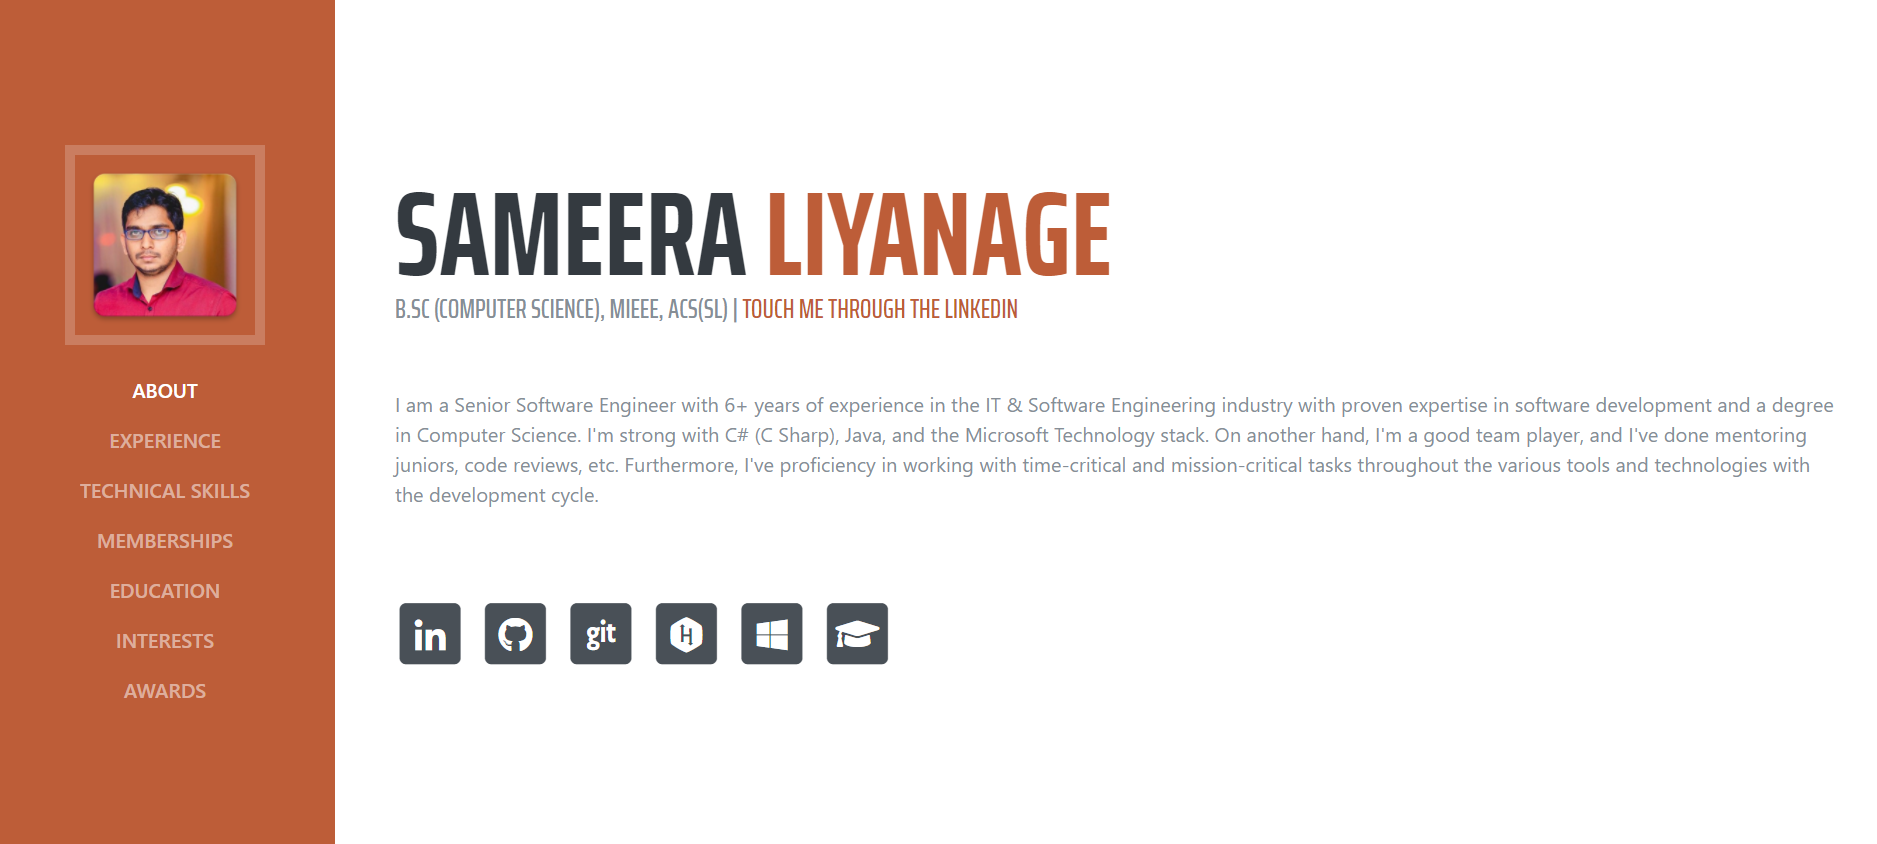
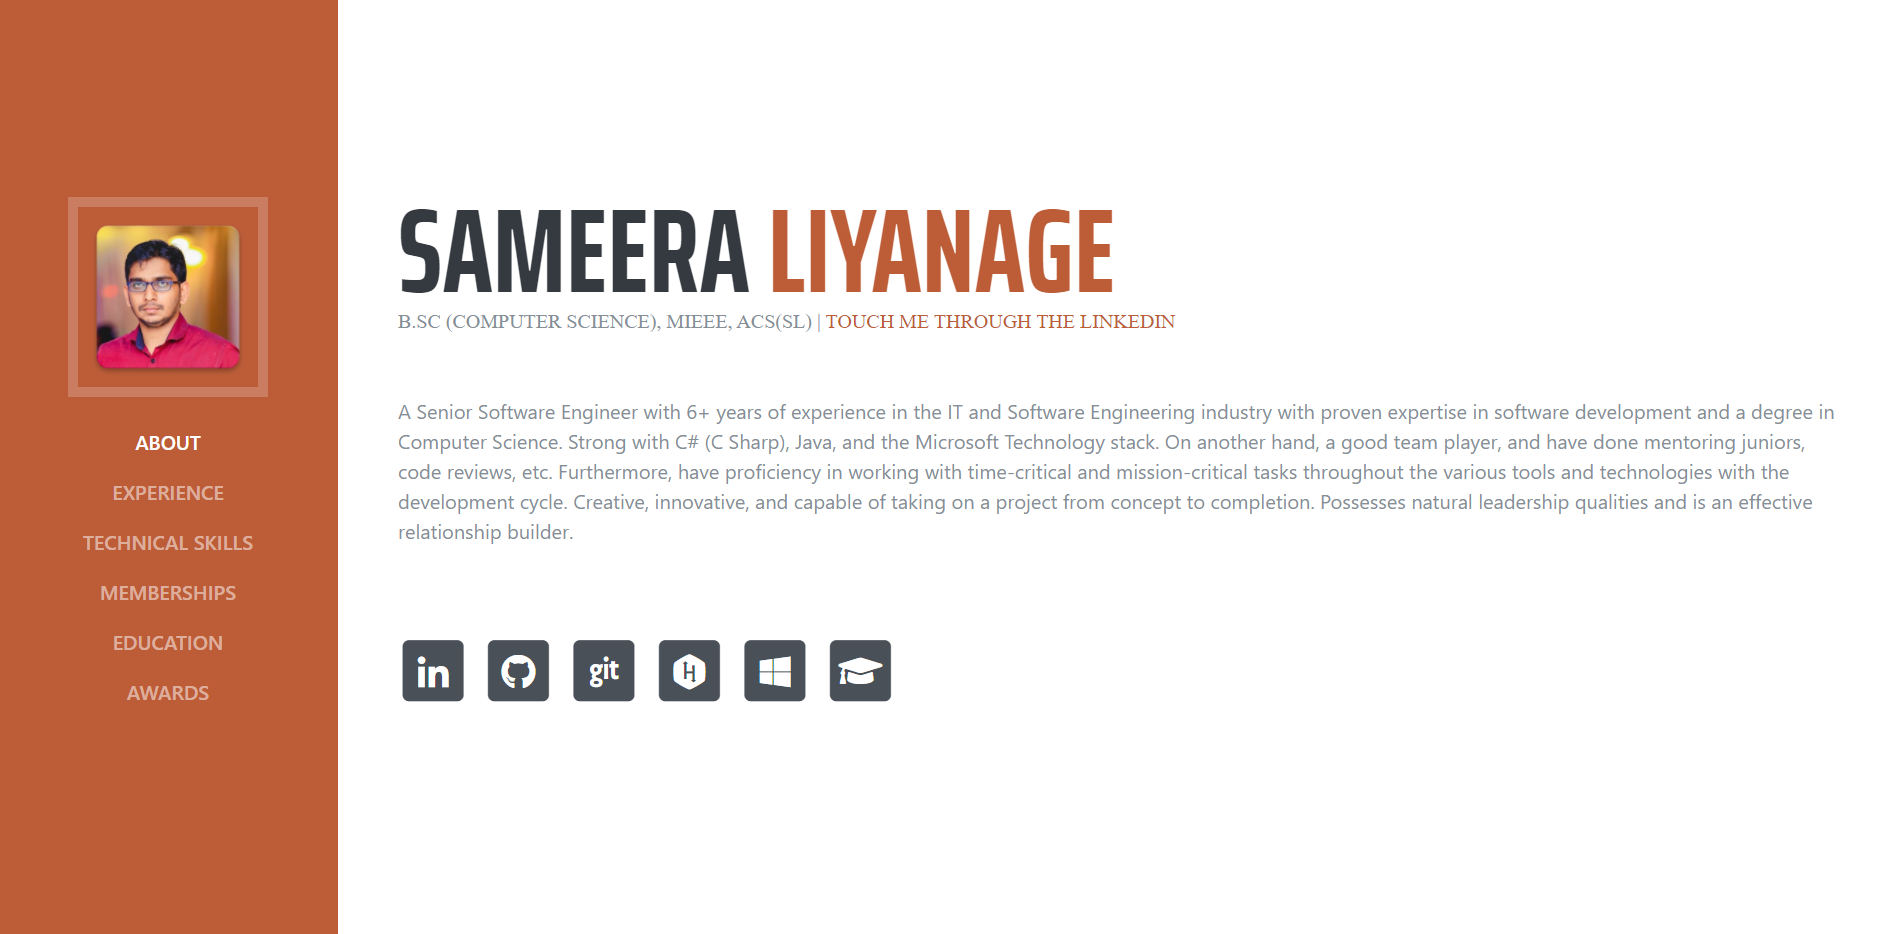
Update details

diff --git a/index.html b/index.html
@@ -53,9 +53,6 @@
 						<a class="nav-link js-scroll-trigger" href="#education">Education</a>
 					</li>
 					<li class="nav-item">
-						<a class="nav-link js-scroll-trigger" href="#interests">Interests</a>
-					</li>
-					<li class="nav-item">
 						<a class="nav-link js-scroll-trigger" href="#awards">Awards</a>
 					</li>
 				</ul>
@@ -70,12 +67,10 @@
 						<a href="https://www.linkedin.com/in/sameeravx" target="_blank">Touch me through the LinkedIn</a>
 					</div>
 					<p class="mb-5">
-						I am a Senior Software Engineer with 6+ years of experience in the IT & Software Engineering industry with proven 
-						expertise in software development and a degree in Computer Science. I'm strong with C# (C Sharp), 
-						Java, and the Microsoft Technology stack. On another hand, I'm a good team player, and I've done mentoring juniors, 
-						code reviews, etc. 
-						Furthermore, I've proficiency in working with time-critical and mission-critical tasks throughout the various 
-						tools and technologies with the development cycle.
+						A Senior Software Engineer with 6+ years of experience in the IT and Software Engineering industry with proven expertise in software development and a degree in Computer Science. 
+						Strong with C# (C Sharp), Java, and the Microsoft Technology stack. On another hand, a good team player, and have done mentoring juniors, code reviews, etc. 
+						Furthermore, have proficiency in working with time-critical and mission-critical tasks throughout the various tools and technologies with the development cycle. 
+						Creative, innovative, and capable of taking on a project from concept to completion. Possesses natural leadership qualities and is an effective relationship builder.
 					</p>					
 					<br/>
 					<ul class="list-inline list-social-icons mb-0">						
@@ -231,7 +226,7 @@
 										<ul>
 											<li>Description</li>
 											<p style="text-align: justify;">
-												This is an integrated system to the existing main insurance system to start a new insurance policy from the quotation level. On another side, It is an automation of manual policy creation.
+												This is an integrated system to the existing main insurance system to start a new insurance policy from the quotation level. On another side, it is an automation of manual policy creation.
 											</p>
 											<li>Role and Responsibilities</li>
 											<p style="text-align: justify;">
@@ -246,12 +241,12 @@
 											<li>Used Technologies & Tools</li>
 											<p style="text-align: justify;">
 												<ul>
-													<li>Angular, Typescript</li>
-													<li>C Sharp (.NET Core), ADO.NET, ASP.NET MVC</li>
-													<li>SQL, SQL Server 2017</li>
-													<li>SQL Server Management Studio 2019</li>
-													<li>DevOps, Azure, IIS, GIT</li>
+													<li>C Sharp (.NET Core), ADO.NET, MVC</li>
+													<li>Entity Framework, SQL, SQL Server 2019</li>
+													<li>Angular, Typescript, JavaScript, jQuery</li>
 													<li>Visual Studio 2019, VS Code</li>
+													<li>SQL Server Management Studio 2019</li>
+													<li>Azure DevOps, IIS, GIT</li>
 												</ul>
 											</p>
 										</ul>
@@ -287,12 +282,12 @@
 											<li>Used Technologies & Tools</li>
 											<p style="text-align: justify;">
 												<ul>
-													<li>Angular, Typescript</li>
 													<li>C Sharp (.NET Core), ADO.NET</li>
-													<li>SQL, SQL Server 2017, SSRS</li>
-													<li>SQL Server Management Studio 2019</li>
-													<li>DevOps, Azure, IIS</li>
+													<li>Entity Framework, SQL, SQL Server 2019</li>
+													<li>Angular, Typescript, HTML</li>
 													<li>Visual Studio 2019, VS Code</li>
+													<li>SQL Server Management Studio 2019</li>
+													<li>Azure DevOps, IIS</li>
 												</ul>
 											</p>
 										</ul>
@@ -328,12 +323,12 @@
 											<li>Used Technologies & Tools</li>
 											<p style="text-align: justify;">
 												<ul>
-													<li>C Sharp (.NET), MVC 5, Razor, ADO.NET, Entity Framework</li>
-													<li>SQL, SSRS, SQL Server 2017</li>
+													<li>C Sharp (.NET), MVC 5, Razor, SSRS</li>
+													<li>Entity Framework, SQL, ADO.NET</li>
 													<li>JavaScript, jQuery, HTML, CSS, Bootstrap</li>
-													<li>SQL Server Management Studio 2019</li>
-													<li>DevOps, TFS, Azure, IIS</li>
 													<li>Visual Studio 2019</li>
+													<li>SQL Server Management Studio 2019</li>
+													<li>Azure DevOps, IIS</li>
 												</ul>
 											</p>
 										</ul>
@@ -369,12 +364,11 @@
 											<li>Used Technologies & Tools</li>
 											<p style="text-align: justify;">
 												<ul>
-													<li>C Sharp (.NET), ASP.NET Web API, ADO.NET, Entity Framework</li>
-													<li>Angular, Typescript, JSON</li>
-													<li>Windows Form, MSSQL, SQL Server 2016</li>
-													<li>HTML, CSS, Bootstrap</li>
-													<li>Visual Studio 2017, VS Code</li>
-													<li>SQL Server Management Studio 2016</li>
+													<li>C Sharp (.NET), ASP.NET Web API</li>
+													<li>Angular, Typescript, ADO.NET, HTML</li>
+													<li>Entity Framework, MSSQL, SQL, Bootstrap</li>
+													<li>Visual Studio 2017, VS CodeHTML, CSS, Bootstrap</li>
+													<li>SQL Server Management Studio 2016, Visual Studio 2017, VS Code</li>
 													<li>TFS, Basecamp, IIS</li>
 												</ul>
 											</p>
@@ -453,7 +447,7 @@
 											<li>Used Technologies & Tools</li>
 											<p style="text-align: justify;">
 												<ul>
-													<li>C Sharp (.NET), Asp.NET MVC 4, Razor, ADO.NET, Entity Framework</li>
+													<li>C Sharp (.NET), ASP.NET MVC 4, Razor, ADO.NET, Entity Framework</li>
 													<li>MSSQL, SQL Server 2012</li>
 													<li>JavaScript, Ajax, jQuery, CSS, HTML, Bootstrap</li>
 													<li>Visual Studio 2015</li>
@@ -854,7 +848,7 @@
 					<div class="resume-item d-flex flex-column flex-md-row mb-5">
 						<div class="resume-content mr-auto">
 							<div class="subheading">Associate Member of the Computer Society of Sri Lanka - ACS (SL)</div>
-							<p>(CSSL - https://cssl.lk)</p>
+							<p>(CSSL - www.cssl.lk)</p>
 						</div>
 						<div class="resume-date text-md-right">
 							<span class="text-primary">2018 - Present</span>
@@ -863,7 +857,7 @@
 					<div class="resume-item d-flex flex-column flex-md-row mb-5">
 						<div class="resume-content mr-auto">
 							<div class="subheading mb-0">Member of the Institute of Electrical and Electronics Engineers - MIEEE</div>
-							<p>(IEEE - https://www.ieee.org)</p>
+							<p>(IEEE - www.ieee.org)</p>
 						</div>
 						<div class="resume-date text-md-right">
 							<span class="text-primary">2011 - 2015</span>
@@ -872,7 +866,7 @@
 					<div class="resume-item d-flex flex-column flex-md-row mb-5">
 						<div class="resume-content mr-auto">
 							<div class="subheading mb-0">Member of Computer Science Society of the University of Colombo</div>
-							<p>(CompSoc - https://compsoc.lk)</p>
+							<p>(CompSoc - www.compsoc.lk)</p>
 						</div>
 						<div class="resume-date text-md-right">
 							<span class="text-primary">2011 - 2015</span>
@@ -895,15 +889,6 @@
 					</div>
 					<div class="resume-item d-flex flex-column flex-md-row mb-5">
 						<div class="resume-content mr-auto">
-							<div class="subheading">Certified in Web Application Testing Automation</div>
-							<p>Pragmatic Test Lab, Sri Lanka<br/>https://bit.ly/3Fq92PR</p>
-						</div>
-						<div class="resume-date text-md-right">
-							<span class="text-primary">2016 – 2017</span>
-						</div>
-					</div>
-					<div class="resume-item d-flex flex-column flex-md-row mb-5">
-						<div class="resume-content mr-auto">
 							<div class="subheading">GCE A-Level in Physics &amp; Mathematics</div>
 							<p>Mathematics - A, Physics - B, Chemistry – B</p>
 						</div>
@@ -912,19 +897,7 @@
 						</div>
 					</div>					
 				</div>
-			</section>
-			
-			<section class="resume-section p-3 p-lg-5 d-flex flex-column" id="interests">
-				<div class="my-auto">
-					<h2 class="mb-5">Interests</h2>
-					<p>
-						Apart from being a software engineer, I enjoy most of my time being outdoors. As a habit, I plant a tree every month for the next generations.
-					</p>
-					<p class="mb-0">						
-						I am very interested in doing travel with my friends. And, I like to watch movies and very much like to think alone.
-					</p>
-				</div>
-			</section>
+			</section>					
 			
 			<section class="resume-section p-3 p-lg-5 d-flex flex-column" id="awards">
 				<div class="my-auto">
@@ -979,6 +952,21 @@
 							<span class="text-primary">2016 August</span>
 						</div>
 					</div>
+					<div class="resume-item d-flex flex-column flex-md-row mb-5">
+						<div class="resume-content mr-auto">
+							<div class="subheading">Certified in Web Application Testing Automation</div>
+							<ul class="fa-ul mb-0">
+								<li>
+									<i class="fa-li fa fa-certificate text-warning"></i>
+									Pragmatic Test Lab, Sri Lanka
+								</li>
+								<li>https://bit.ly/3Fq92PR</li>
+							</ul>
+						</div>
+						<div class="resume-date text-md-right">
+							<span class="text-primary">2018 April</span>
+						</div>
+					</div>					
 					<div class="resume-item d-flex flex-column flex-md-row mb-5">
 						<div class="resume-content mr-auto">
 							<div class="subheading">ASP .NET MVC Core 2.0 Course Completion Certification</div>

diff --git a/css/resume.min.css b/css/resume.min.css
@@ -1,1 +1,1 @@
-body{/*font-family:'Open Sans',serif;*/padding-top:54px;color:#868e96}@media (min-width:992px){body{padding-top:0;padding-left:17rem}}h1,h2,h3,h4,h5,h6{font-family:'Saira Extra Condensed',serif;font-weight:700;text-transform:uppercase;color:#343a40}h1{font-size:6rem;line-height:5.5rem}h2{font-size:3.5rem}.subheading{text-transform:uppercase;font-weight:500;font-family:'Saira Extra Condensed',serif;font-size:1.35rem}.list-social-icons a{color:#495057}.list-social-icons a:hover{color:#bd5d38}.list-social-icons a .fa-lg{font-size:1.75rem}.list-icons{font-size:3rem}.list-icons .list-inline-item i:hover{color:#bd5d38}#sideNav .navbar-nav .nav-item .nav-link{font-weight:600;text-transform:uppercase}@media (min-width:992px){#sideNav{text-align:center;position:fixed;top:0;left:0;display:flex;flex-direction:column;width:17rem;height:100vh}#sideNav .navbar-brand{display:flex;margin:auto auto 0;padding:.5rem}#sideNav .navbar-brand .img-profile{max-width:10rem;max-height:11rem;border:.5rem solid rgba(255,255,255,.2)}#sideNav .navbar-collapse{display:flex;align-items:flex-start;flex-grow:0;width:100%;margin-bottom:auto}#sideNav .navbar-collapse .navbar-nav{flex-direction:column;width:100%}#sideNav .navbar-collapse .navbar-nav .nav-item{display:block}#sideNav .navbar-collapse .navbar-nav .nav-item .nav-link{display:block}}section.resume-section{border-bottom:1px solid #dee2e6;padding-top:5rem!important;padding-bottom:5rem!important}section.resume-section .resume-item .resume-date{min-width:none}@media (min-width:768px){section.resume-section{min-height:100vh}section.resume-section .resume-item .resume-date{min-width:18rem}}@media (min-width:992px){section.resume-section{padding-top:3rem!important;padding-bottom:3rem!important}}.bg-primary{background-color:#bd5d38!important}.text-primary{color:#bd5d38!important}a{color:#bd5d38}a:active,a:focus,a:hover{color:#824027}
+body{/*font-family:'Open Sans',serif;*/padding-top:54px;color:#868e96}@media (min-width:992px){body{padding-top:0;padding-left:17rem}}h1,h2,h3,h4,h5,h6{font-family:'Saira Extra Condensed',serif;font-weight:700;text-transform:uppercase;color:#343a40}h1{font-size:6rem;line-height:5.5rem}h2{font-size:3.5rem}.subheading{text-transform:uppercase;font-weight:500;font-family:serif,'Saira Extra Condensed';/*font-size:1.35rem*/}.list-social-icons a{color:#495057}.list-social-icons a:hover{color:#bd5d38}.list-social-icons a .fa-lg{font-size:1.75rem}.list-icons{font-size:3rem}.list-icons .list-inline-item i:hover{color:#bd5d38}#sideNav .navbar-nav .nav-item .nav-link{font-weight:600;text-transform:uppercase}@media (min-width:992px){#sideNav{text-align:center;position:fixed;top:0;left:0;display:flex;flex-direction:column;width:17rem;height:100vh}#sideNav .navbar-brand{display:flex;margin:auto auto 0;padding:.5rem}#sideNav .navbar-brand .img-profile{max-width:10rem;max-height:11rem;border:.5rem solid rgba(255,255,255,.2)}#sideNav .navbar-collapse{display:flex;align-items:flex-start;flex-grow:0;width:100%;margin-bottom:auto}#sideNav .navbar-collapse .navbar-nav{flex-direction:column;width:100%}#sideNav .navbar-collapse .navbar-nav .nav-item{display:block}#sideNav .navbar-collapse .navbar-nav .nav-item .nav-link{display:block}}section.resume-section{border-bottom:1px solid #dee2e6;padding-top:5rem!important;padding-bottom:5rem!important}section.resume-section .resume-item .resume-date{min-width:none}@media (min-width:768px){section.resume-section{min-height:100vh}section.resume-section .resume-item .resume-date{min-width:18rem}}@media (min-width:992px){section.resume-section{padding-top:3rem!important;padding-bottom:3rem!important}}.bg-primary{background-color:#bd5d38!important}.text-primary{color:#bd5d38!important}a{color:#bd5d38}a:active,a:focus,a:hover{color:#824027}

diff --git a/css/resume.css b/css/resume.css
@@ -35,8 +35,8 @@ h2 {
 .subheading {
   text-transform: uppercase;
   font-weight: 500;
-  font-family: 'Saira Extra Condensed', serif;
-  font-size: 1.35rem;
+  font-family: serif, 'Saira Extra Condensed';
+  /*font-size: 1.35rem;*/
 }
 
 .list-social-icons a {
